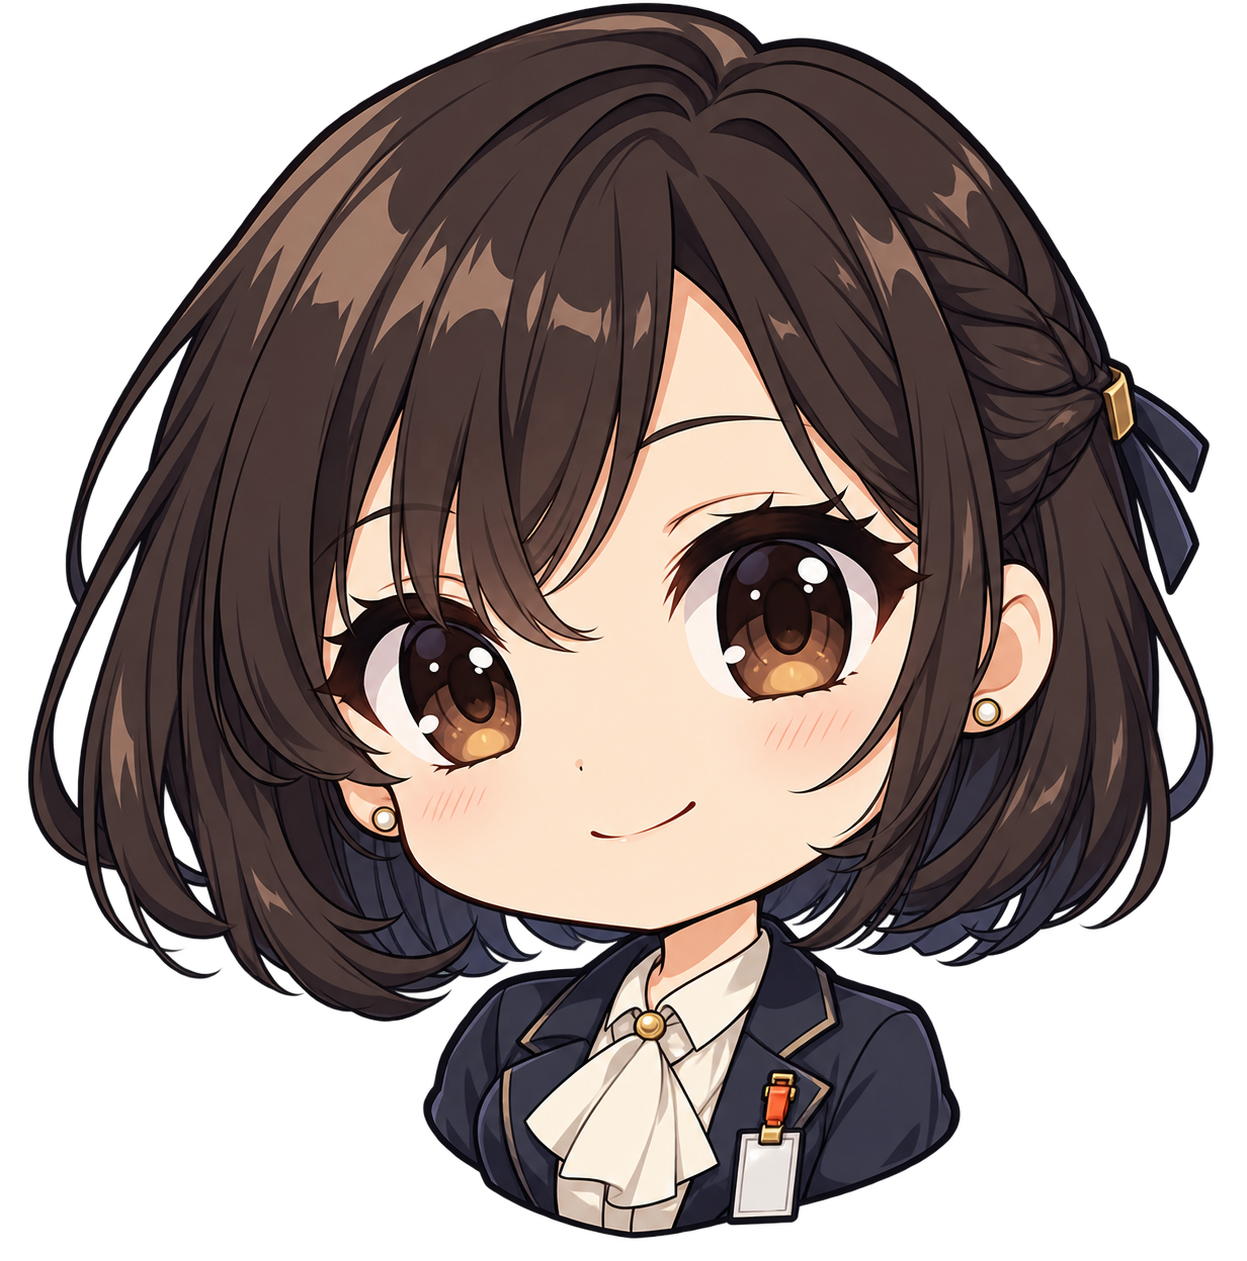
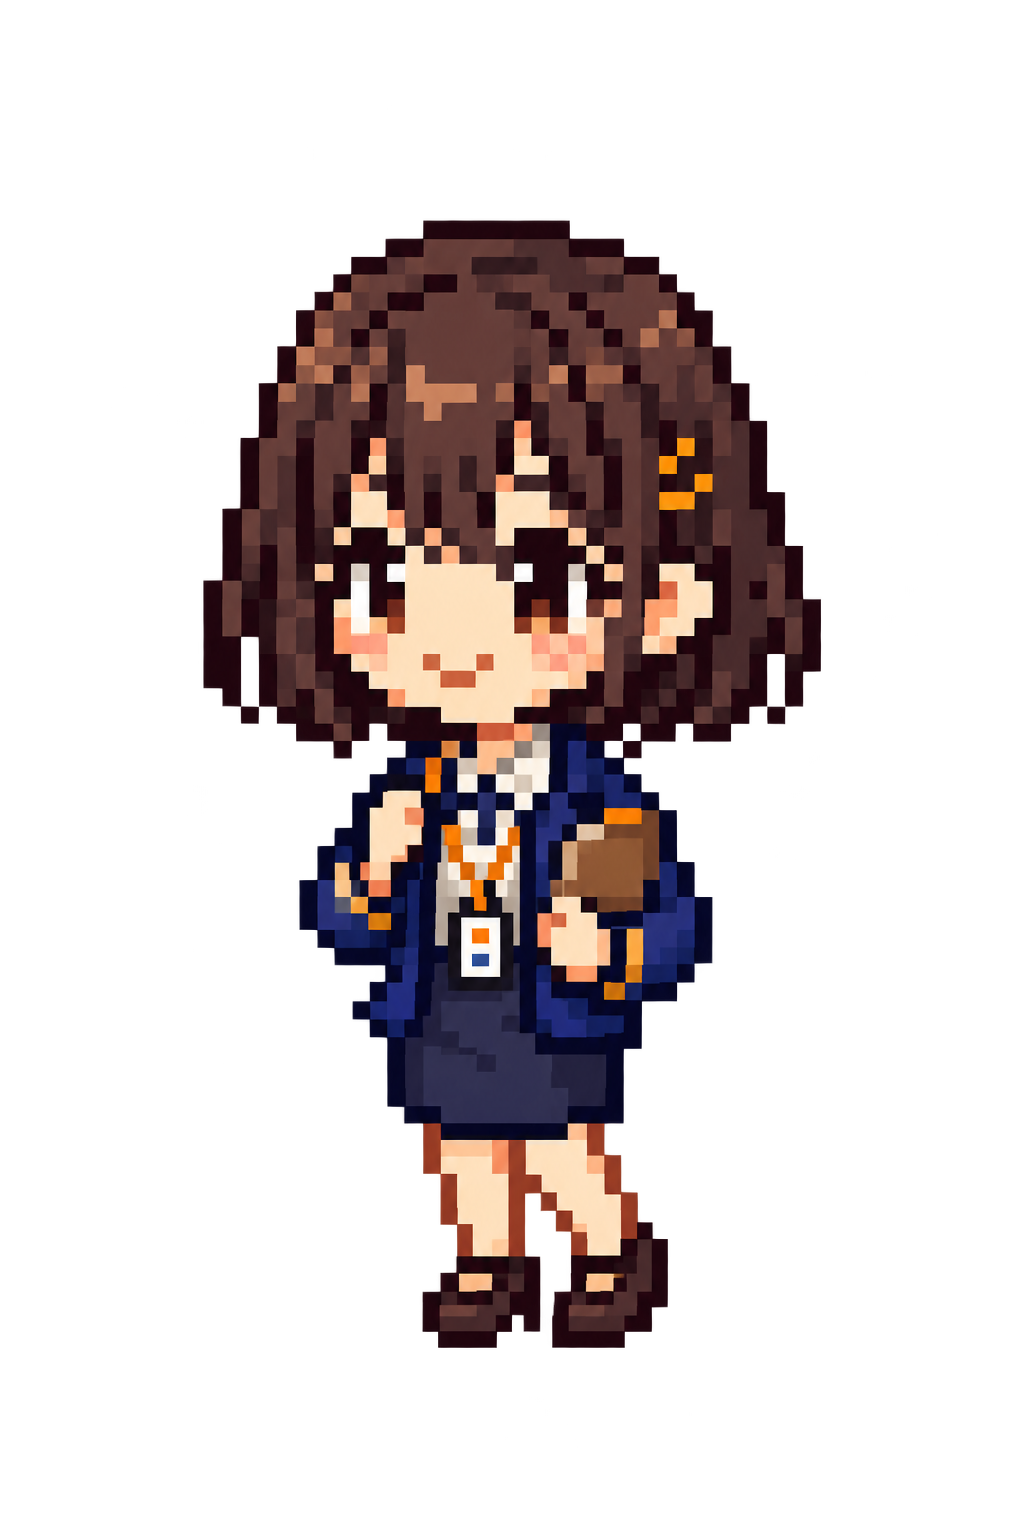
Replace portraits with tiny pixel sprites

diff --git a/site/app/globals.css b/site/app/globals.css
@@ -73,6 +73,6 @@ footer{padding:38px 5vw;background:var(--ink);color:var(--paper);display:flex;ju
 @media(max-width:800px){.city-intro{padding-top:4rem}.route-board{grid-template-columns:1fr}.route-map{min-height:520px}.route-node{width:150px}.node-1{left:4%}.node-2{right:4%}.node-3{left:5%}.node-4{right:5%}.route-result{padding:3rem 1.4rem}.route-result nav{flex-direction:column}}
 .route-result a.primary{background:var(--signal);border-color:var(--signal);color:#0a0c0f}.case-shell{min-height:100vh;background:#0a0c0f;color:#e9e4d9;padding:0 5vw 5rem}.case-intro{padding:6rem 0 3rem}.case-intro small,.case-detail>small,.case-options>small,.case-verdict>small,.case-empty>small{color:var(--signal);letter-spacing:.16em}.case-intro h1{font:400 clamp(3rem,7vw,7rem)/.88 var(--display);letter-spacing:-.05em;margin:1rem 0}.case-intro p,.case-detail p,.case-options p,.case-empty p{color:#9da4a8;line-height:1.6}.caseboard{display:grid;grid-template-columns:1.4fr minmax(320px,.7fr);border:1px solid #34383d;min-height:570px}.case-files{display:grid;grid-template-columns:repeat(2,1fr);gap:1px;background:#34383d}.case-files button{position:relative;border:0;background:#191d20;color:#e9e4d9;padding:3rem;text-align:left;cursor:pointer}.case-files button:before{content:"";position:absolute;inset:1rem;border:1px solid #3e454a}.case-files button:hover,.case-files button:focus-visible,.case-files button[aria-pressed=true]{background:#22272b;outline:2px solid var(--signal);outline-offset:-5px}.case-files button.opened:after{content:"✓";position:absolute;right:2rem;top:1.8rem;color:var(--signal);font-size:1.5rem}.case-files span,.case-files small{position:relative;z-index:1;color:#858d92;letter-spacing:.12em}.case-files h2{position:relative;z-index:1;font:400 clamp(2rem,4vw,4rem)/.95 var(--display);margin:3rem 0 5rem}.case-detail{background:#111417;padding:2rem;display:flex;flex-direction:column}.case-detail h2{font:400 2.3rem/1 var(--display);margin:.8rem 0 2rem}.case-detail dl{display:grid;grid-template-columns:1fr 1fr;margin:0}.case-detail dl div{border-top:1px solid #34383d;padding:1rem 0}.case-detail dt{color:#7f878c;font-size:.6rem;letter-spacing:.12em}.case-detail dd{font:400 1.8rem var(--display);margin:.3rem 0}.case-options{display:grid;gap:.55rem;margin-top:auto}.case-options button,.case-verdict button,.case-verdict a,.case-empty a{border:1px solid #4a5055;background:transparent;color:#e9e4d9;padding:.85rem;text-align:left;text-decoration:none;cursor:pointer;font:inherit;font-size:.72rem;letter-spacing:.08em}.case-options button:hover:not(:disabled),.case-options button:focus-visible:not(:disabled){border-color:var(--signal);outline:none}.case-options button:disabled{opacity:.35;cursor:not-allowed}.case-verdict,.case-empty{padding:5rem max(0px,8vw);margin:5rem 0 0;border:1px solid #34383d;background:#111417}.case-verdict h2,.case-empty h2{font:400 clamp(2.5rem,5vw,5rem)/1 var(--display);margin:.8rem 0 2rem}.case-verdict blockquote{border-left:3px solid var(--signal);margin:0;padding:1rem 1.5rem;font-size:1.15rem;line-height:1.6}.case-verdict>div{display:grid;grid-template-columns:auto 1fr auto 1fr;gap:1rem;border-top:1px solid #34383d;border-bottom:1px solid #34383d;margin:2rem 0;padding:1rem 0}.case-verdict>div span{color:#7f878c;font-size:.62rem;letter-spacing:.12em}.case-verdict nav{display:flex;gap:.8rem}.case-verdict button{background:var(--signal);border-color:var(--signal);color:#0a0c0f}.case-empty a{display:inline-block;margin-top:1rem}
 @media(max-width:800px){.case-intro{padding-top:4rem}.caseboard{grid-template-columns:1fr}.case-files button{padding:2rem}.case-files h2{margin:2rem 0 4rem}.case-verdict,.case-empty{padding:3rem 1.4rem}.case-verdict>div{grid-template-columns:auto 1fr}.case-verdict nav{flex-direction:column}}
-.persona-room{position:absolute;inset:0;background:linear-gradient(155deg,#334d68 0 52%,#172333 52%);overflow:hidden}.persona-room:after{content:"";position:absolute;inset:auto -8% -15% 18%;height:52%;background:repeating-linear-gradient(100deg,rgba(255,255,255,.05) 0 2px,transparent 2px 75px);transform:skewX(-16deg);border-top:2px solid rgba(255,255,255,.2)}.persona-room i{position:absolute;display:block;background:#14202d;border:3px solid #7694aa}.room-window{width:32%;height:36%;right:9%;top:10%;background:linear-gradient(#8cb4ca,#edc58e)!important;box-shadow:inset 0 0 0 8px #172330}.room-bed{width:35%;height:16%;left:5%;bottom:12%;transform:skewX(-9deg)}.room-desk{width:27%;height:22%;right:5%;bottom:8%;transform:skewX(8deg)}.room-notice{width:15%;height:22%;left:12%;top:12%;background:#d9d0b9!important;border-color:#d9d0b9!important;transform:rotate(-3deg)}.chibi-sprite{position:absolute;z-index:2;object-fit:contain;filter:drop-shadow(0 18px 22px rgba(0,0,0,.5))}.ren-chibi{width:min(48%,420px);height:auto;right:20%;bottom:-2%;animation:chibi-idle 3.4s ease-in-out infinite}.dialogue-box{position:relative;background:linear-gradient(105deg,rgba(16,49,82,.98),rgba(12,24,45,.98))!important;border:2px solid #79b7d9!important;border-left:10px solid var(--signal)!important;padding:1.4rem!important;clip-path:polygon(0 8%,4% 0,100% 0,97% 100%,0 100%)}.speaker-tag{position:absolute;right:1rem;top:-.8rem;background:var(--signal);color:#07111d;padding:.25rem .8rem;font-weight:900;letter-spacing:.14em;transform:skewX(-12deg)}.character-dossier{position:relative;padding-top:10rem!important}.character-dossier>img{position:absolute;width:165px;height:165px;object-fit:contain;right:-.5rem;top:.4rem;filter:drop-shadow(0 10px 10px rgba(0,0,0,.45))}.verdict-chibi{float:right;width:230px;height:230px;object-fit:contain;margin:-2rem -1rem 1rem 2rem;filter:drop-shadow(0 12px 14px rgba(0,0,0,.5))}@keyframes chibi-idle{50%{transform:translateY(-6px) rotate(.5deg)}}
-@media(max-width:800px){.ren-chibi{right:8%;width:56%}.character-dossier{padding-top:9rem!important}.verdict-chibi{width:170px;height:170px}.room-window{width:38%}.hotspot{font-size:.58rem;padding:.55rem}.hotspot-1{left:4%}.hotspot-2{right:4%}.hotspot-3{left:7%}}
+.persona-room{position:absolute;inset:0;background:linear-gradient(155deg,#334d68 0 52%,#172333 52%);overflow:hidden}.persona-room:after{content:"";position:absolute;inset:auto -8% -15% 18%;height:52%;background:repeating-linear-gradient(100deg,rgba(255,255,255,.05) 0 2px,transparent 2px 75px);transform:skewX(-16deg);border-top:2px solid rgba(255,255,255,.2)}.persona-room i{position:absolute;display:block;background:#14202d;border:3px solid #7694aa}.room-window{width:32%;height:36%;right:9%;top:10%;background:linear-gradient(#8cb4ca,#edc58e)!important;box-shadow:inset 0 0 0 8px #172330}.room-bed{width:35%;height:16%;left:5%;bottom:12%;transform:skewX(-9deg)}.room-desk{width:27%;height:22%;right:5%;bottom:8%;transform:skewX(8deg)}.room-notice{width:15%;height:22%;left:12%;top:12%;background:#d9d0b9!important;border-color:#d9d0b9!important;transform:rotate(-3deg)}.chibi-sprite{position:absolute;z-index:2;object-fit:contain;image-rendering:pixelated;filter:drop-shadow(0 8px 5px rgba(0,0,0,.55))}.ren-chibi{width:96px;height:96px;right:28%;bottom:12%;animation:chibi-idle 3.4s steps(2,end) infinite}.dialogue-box{position:relative;background:linear-gradient(105deg,rgba(16,49,82,.98),rgba(12,24,45,.98))!important;border:2px solid #79b7d9!important;border-left:10px solid var(--signal)!important;padding:1.4rem!important;clip-path:polygon(0 8%,4% 0,100% 0,97% 100%,0 100%)}.speaker-tag{position:absolute;right:1rem;top:-.8rem;background:var(--signal);color:#07111d;padding:.25rem .8rem;font-weight:900;letter-spacing:.14em;transform:skewX(-12deg)}.character-dossier{position:relative;padding-top:5.5rem!important}.character-dossier>img{position:absolute;width:80px;height:80px;object-fit:contain;image-rendering:pixelated;right:.7rem;top:.4rem;filter:drop-shadow(0 6px 4px rgba(0,0,0,.5))}.verdict-chibi{float:right;width:96px;height:96px;object-fit:contain;image-rendering:pixelated;margin:-.6rem 0 .5rem 1.2rem;filter:drop-shadow(0 6px 4px rgba(0,0,0,.5))}@keyframes chibi-idle{50%{transform:translateY(-3px)}}
+@media(max-width:800px){.ren-chibi{right:12%;width:80px;height:80px}.character-dossier{padding-top:5.5rem!important}.verdict-chibi{width:80px;height:80px}.room-window{width:38%}.hotspot{font-size:.58rem;padding:.55rem}.hotspot-1{left:4%}.hotspot-2{right:4%}.hotspot-3{left:7%}}
 .pixel-room{object-fit:cover;image-rendering:pixelated;animation:pixel-room-breathe 8s ease-in-out infinite}.pixel-shade{position:absolute;inset:0;background:linear-gradient(90deg,rgba(5,7,8,.13),transparent 35% 70%,rgba(5,7,8,.18));pointer-events:none}.hotspot-3{left:14%;right:auto;top:19%}@keyframes pixel-room-breathe{50%{filter:brightness(1.07)}}

diff --git a/site/app/game/city/page.tsx b/site/app/game/city/page.tsx
@@ -63,7 +63,7 @@ export default function CityRoutePage() {
     <section className="city-intro"><small>DAY {snapshot.clock.day} / {snapshot.clock.slot} / TOKYO</small><h1>The city is already<br />making its moves.</h1><p>Inspect two signals, then suggest one route. Ren decides whether the lead belongs in his day.</p></section>
     <section className="route-board" aria-label="Tokyo route board">
       <div className="route-map"><div className="map-ring ring-one" aria-hidden="true" /><div className="map-ring ring-two" aria-hidden="true" /><span className="map-origin">REN<br /><b>{snapshot.protagonist.location}</b></span>{routes.map((route, index) => <button key={route.name} className={`route-node node-${index + 1} ${inspected.includes(route.location) ? "inspected" : ""}`} onClick={() => inspect(route.location)} aria-pressed={active === route.location}><small>{route.name}</small><b>{route.location}</b></button>)}</div>
-      <aside className="route-dossier" aria-live="polite"><div className="game-progress"><span>SIGNALS CHECKED</span><b>{inspected.length} / {routes.length}</b></div>{!activeRoute && <div className="game-copy"><small>CITY ROUTE BOARD</small><h2>Follow the human signals.</h2><p>Every marker comes from the authenticated whereabouts ledger for this exact time slot.</p></div>}{activeRoute && <div className="game-copy character-dossier"><Image src={PORTRAITS[activeRoute.name]} alt={`Chibi portrait of ${activeRoute.name}`} width={190} height={190} /><small>{activeRoute.relationship?.role ?? "KNOWN CONTACT"}</small><h2>{activeRoute.name}</h2><p>{activeRoute.location}. Trust {activeRoute.relationship?.trust ?? 0}; familiarity {activeRoute.relationship?.familiarity ?? 0}; tension {activeRoute.relationship?.tension ?? 0}.</p></div>}<div className="route-options"><small>SUGGEST A ROUTE</small>{routes.map((route) => <button key={route.name} disabled={!ready || choice !== null} onClick={() => setChoice({ name: route.name, location: route.location })}><span>{route.location}</span><small>LOOK FOR {route.name}</small></button>)}{!ready && <p>Inspect {2 - inspected.length} more signal{2 - inspected.length === 1 ? "" : "s"} first.</p>}</div></aside>
+      <aside className="route-dossier" aria-live="polite"><div className="game-progress"><span>SIGNALS CHECKED</span><b>{inspected.length} / {routes.length}</b></div>{!activeRoute && <div className="game-copy"><small>CITY ROUTE BOARD</small><h2>Follow the human signals.</h2><p>Every marker comes from the authenticated whereabouts ledger for this exact time slot.</p></div>}{activeRoute && <div className="game-copy character-dossier"><Image src={PORTRAITS[activeRoute.name]} alt={`Pixel sprite of ${activeRoute.name}`} width={80} height={80} /><small>{activeRoute.relationship?.role ?? "KNOWN CONTACT"}</small><h2>{activeRoute.name}</h2><p>{activeRoute.location}. Trust {activeRoute.relationship?.trust ?? 0}; familiarity {activeRoute.relationship?.familiarity ?? 0}; tension {activeRoute.relationship?.tension ?? 0}.</p></div>}<div className="route-options"><small>SUGGEST A ROUTE</small>{routes.map((route) => <button key={route.name} disabled={!ready || choice !== null} onClick={() => setChoice({ name: route.name, location: route.location })}><span>{route.location}</span><small>LOOK FOR {route.name}</small></button>)}{!ready && <p>Inspect {2 - inspected.length} more signal{2 - inspected.length === 1 ? "" : "s"} first.</p>}</div></aside>
     </section>
     {choice && <section className="route-result" aria-labelledby="route-result-title"><small>ROUTE SUGGESTED / CANON UNCHANGED</small><h2 id="route-result-title">{choice.location}</h2><blockquote>{routeResponse(snapshot, choice.name, choice.location)}</blockquote><p>The route exists only in this play session. Ren's autonomous schedule and the authenticated save have not advanced.</p><nav><Link className="primary" href="/game/caseboard">CONTINUE TO CASEBOARD</Link><button onClick={reset}>REDRAW ROUTE</button><Link href="/">WATCH WHAT REN ACTUALLY DOES</Link></nav></section>}
     <footer className="game-footer"><b>AUTHENTICATED CITY STATE</b><p>{snapshot.environment.weather}, {snapshot.environment.temperature_c} C / Gate alert {snapshot.environment.gate_alert_level}</p><span>SEED {snapshot.seed}</span></footer>

diff --git a/site/app/game/caseboard/page.tsx b/site/app/game/caseboard/page.tsx
@@ -70,7 +70,7 @@ export default function CaseboardPage() {
       </aside>
     </section>}
 
-    {recommendation && <section className="case-verdict"><Image className="verdict-chibi" src="/game/characters/ren.png" alt="Chibi portrait of Ren Takahashi" width={260} height={260} /><small>{recommendation.tone} / ADVISORY ONLY</small><h2>Ren reads the margin note.</h2><blockquote>{renResponse(snapshot, recommendation.id)}</blockquote><div><span>ACTIVE PLAN</span><b>{snapshot.portals.active_plan ?? "NONE"}</b><span>CANON STATUS</span><b>UNCHANGED</b></div><nav><button onClick={replay}>REOPEN CASEBOARD</button><Link href="/">WATCH REN'S NEXT MOVE</Link></nav></section>}
+    {recommendation && <section className="case-verdict"><Image className="verdict-chibi" src="/game/characters/ren.png" alt="Pixel sprite of Ren Takahashi" width={96} height={96} /><small>{recommendation.tone} / ADVISORY ONLY</small><h2>Ren reads the margin note.</h2><blockquote>{renResponse(snapshot, recommendation.id)}</blockquote><div><span>ACTIVE PLAN</span><b>{snapshot.portals.active_plan ?? "NONE"}</b><span>CANON STATUS</span><b>UNCHANGED</b></div><nav><button onClick={replay}>REOPEN CASEBOARD</button><Link href="/">WATCH REN'S NEXT MOVE</Link></nav></section>}
     <footer className="game-footer"><b>LOCAL CASE SESSION</b><p>Recommendations do not begin investigations, consume a time slot, or modify Gate plans.</p><span>{cases.length} AUTHENTICATED CASES</span></footer>
   </main>;
 }

diff --git a/site/app/game/page.tsx b/site/app/game/page.tsx
@@ -145,7 +145,7 @@ export default function GamePage() {
     <section className="game-board" aria-label="Point-and-click scene">
       <div className="game-room">
         <div className="persona-room" aria-hidden="true"><i className="room-window" /><i className="room-bed" /><i className="room-desk" /><i className="room-notice" /></div>
-        <Image className="chibi-sprite ren-chibi" src="/game/characters/ren.png" alt="Chibi portrait of Ren Takahashi" width={420} height={420} priority />
+        <Image className="chibi-sprite ren-chibi" src="/game/characters/ren.png" alt="Pixel sprite of Ren Takahashi" width={96} height={96} priority />
         {HOTSPOTS.map((hotspot, index) => <button
           key={hotspot.id}
           className={`hotspot hotspot-${index + 1} ${clues.includes(hotspot.id) ? "found" : ""}`}

diff --git a/tests/test_simulation.py b/tests/test_simulation.py
@@ -69,7 +69,7 @@ class SimulationTests(unittest.TestCase):
         with redirect_stdout(output), self.assertRaises(SystemExit) as context:
             cli_main(("--version",))
         self.assertEqual(context.exception.code, 0)
-        self.assertTrue(output.getvalue().strip().endswith(" 0.560.0"))
+        self.assertTrue(output.getvalue().strip().endswith(" 0.570.0"))
 
     def test_four_actions_advance_exactly_one_day(self) -> None:
         simulation = Simulation(seed=1)

diff --git a/src/awakened_zero_rank/__init__.py b/src/awakened_zero_rank/__init__.py
@@ -16,7 +16,7 @@ from .observer import (
 )
 from .simulation import Simulation
 
-__version__ = "0.560.0"
+__version__ = "0.570.0"
 
 __all__ = [
     "Simulation", "__version__", "compare_observer_site_data",

diff --git a/README.md b/README.md
@@ -8,7 +8,7 @@ Ren Takahashi starts poor, unranked, and unknown. He decides how to work, recove
 
 | Status | Value |
 |---|---|
-| Release | `0.560.0` |
+| Release | `0.570.0` |
 | Python | 3.11+; CI-tested through 3.14 |
 | Production controller | Transparent utility policy |
 | RL adoption verdict | **Baseline remains better** |
@@ -25,7 +25,7 @@ The current game contains three connected, authenticated chapters:
 2. **Tokyo route board** — examine current character whereabouts and suggest a destination.
 3. **Gate caseboard** — review portal evidence and offer a risk recommendation.
 
-The game now uses individual transparent chibi portraits for Ren, Aiko, Daichi, Mei, and Haruto inside an angular, dialogue-first social-sim interface. Locations remain separate presentation layers instead of being baked into character artwork. Player interactions remain local to the browser session: they do not advance time, change the save, begin investigations, or override Ren's autonomous decisions.
+The game now uses tiny transparent pixel chibi sprites for Ren, Aiko, Daichi, Mei, and Haruto inside an angular, dialogue-first social-sim interface. They render at overworld scale with crisp pixel edges; locations remain separate presentation layers instead of being baked into character artwork. Player interactions remain local to the browser session: they do not advance time, change the save, begin investigations, or override Ren's autonomous decisions.
 
 ## What the simulation models
 

diff --git a/CHANGELOG.md b/CHANGELOG.md
@@ -4,6 +4,11 @@ This file preserves the detailed update record, balance evidence, rejected exper
 
 The project follows evidence-driven releases: learned-policy changes remain offline until held-out evaluation supports adoption without safety or progression regressions.
 
+## 0.570.0 - Tiny pixel overworld cast
+
+- Replaced the large chibi portraits with five transparent, hard-pixel overworld sprites for Ren, Aiko, Daichi, Mei, and Haruto.
+- Reduced character presentation to 80–96 pixels, added crisp pixel rendering, and tightened the dialogue, route, and verdict layouts around the smaller cast.
+
 ## 0.560.0 - Chibi dialogue cast
 
 - Replaced the full-room generated illustration with five individual transparent chibi portraits for Ren, Aiko, Daichi, Mei, and Haruto.
